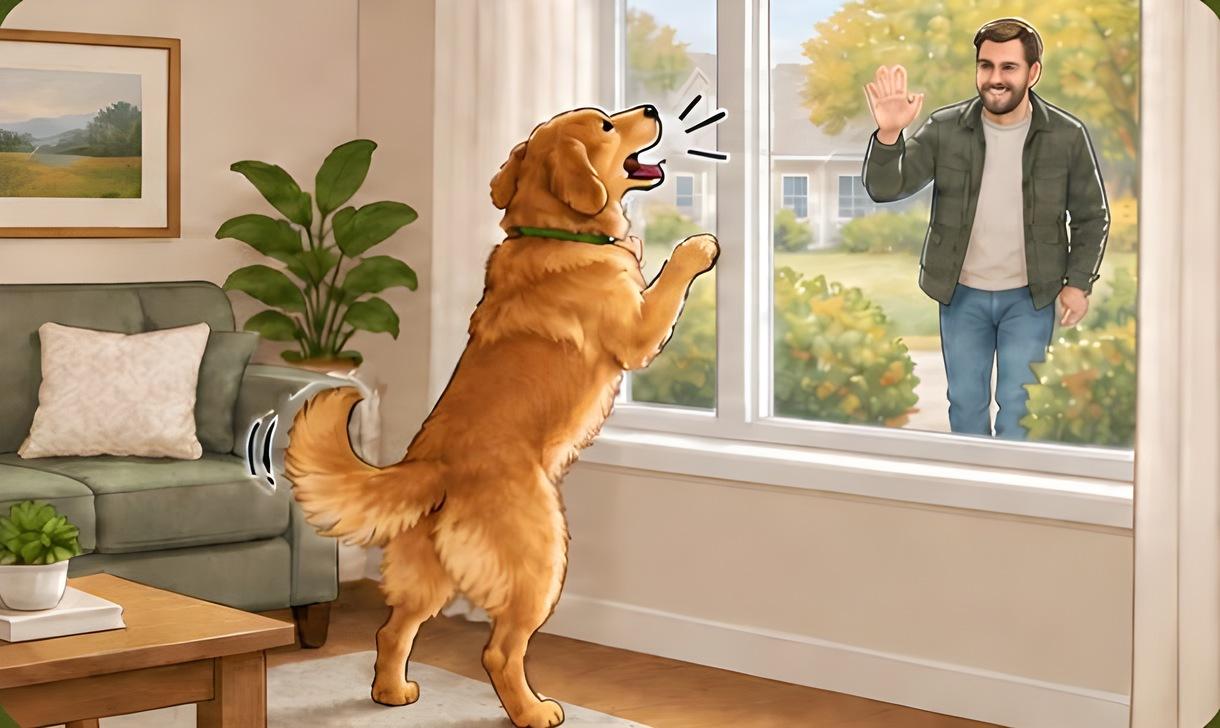
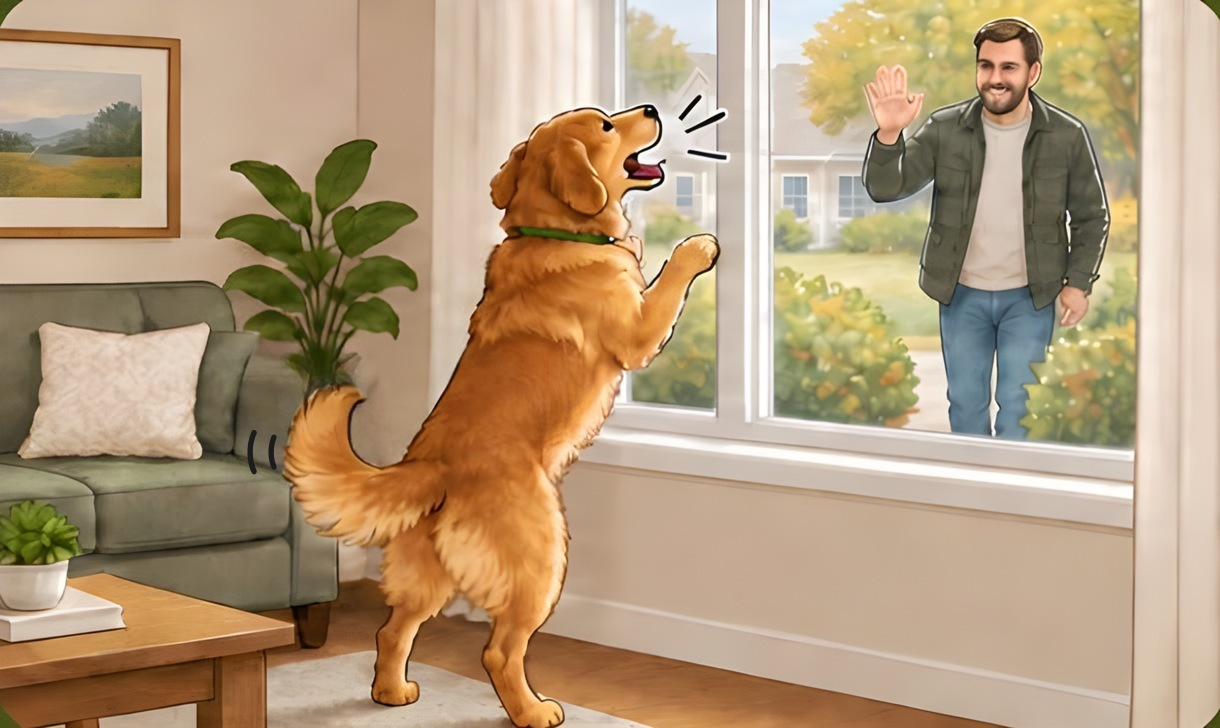
Chapter 3: cleaner window picture (tail and couch), ABC Tracker homework PDF
Claude-Session: https://claude.ai/code/session_019YY1xcWAiLQRfp1mEcYtA5

Changed region(s): [[0.1869, 0.4835, 0.3115, 0.6951]]

diff --git a/CLAUDE.md b/CLAUDE.md
@@ -155,6 +155,9 @@ pipeline). This file records the state, decisions and working agreements from ea
   (Real-ESRGAN x4plus, then Lanczos to 2x; originals in `assets/img/archive/abc_lowres/`). s11 says "from another
   chapter" (no chapter named); s14 opens "Now that we have the missing piece, the ABCs, we can go back to the pot and add
   temperature in the next section." First build in Tori's ElevenLabs voice (eleven_v4), about 9.8 minutes.
+  abc_greet_b.jpg: the white ghost around the tail and couch arm was inpainted (LaMa) and the wag marks redrawn as clean arcs.
+  Homework PDF: `node tools/homework_pdf.mjs` writes out/full/Understanding-Dog-Behavior-Ch3-ABC-Tracker.pdf (one landscape
+  page, example row + 5 rows, every blank cell a fillable field; needs pdf-lib).
   GHL card thumbnail: out/full/Understanding-Dog-Behavior-Ch3.jpg = ch03card segment at 1.6 s, 1280x720 (like Chapter 1).
 - Online preview (temporary AI voice): https://claude.ai/artifact/LgEH4FvtiMGM1FG7V3iDuz (`out/web/chapter3/`; publish
   without the .vtt files, captions are inline).
